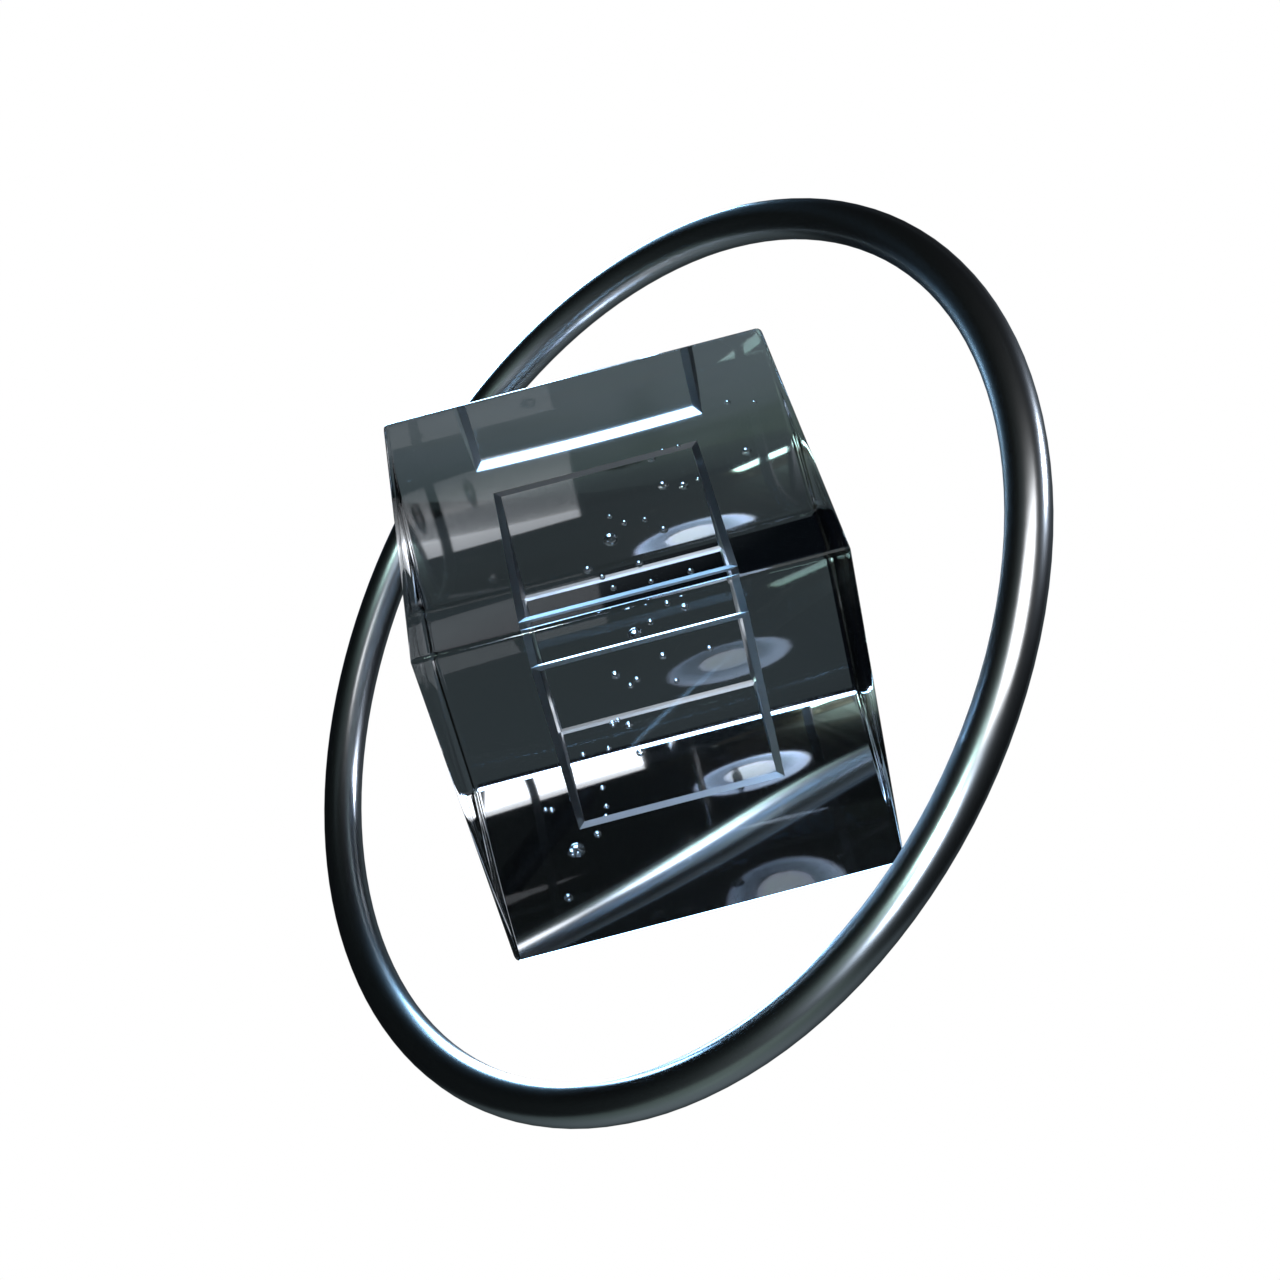
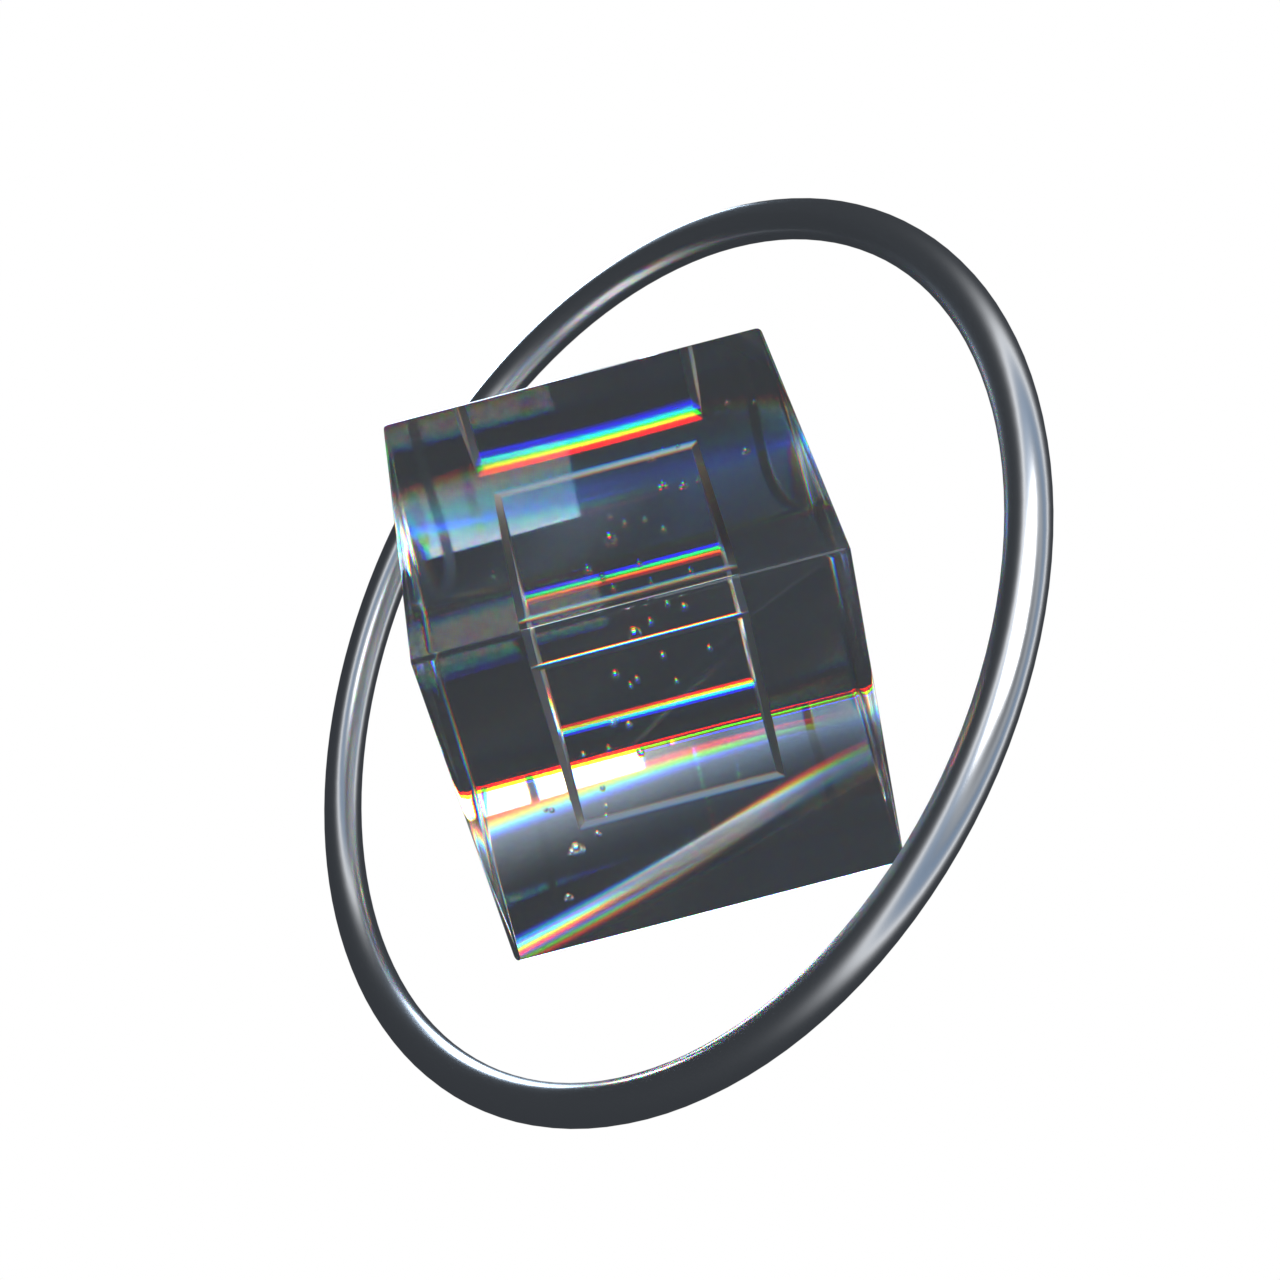
Give the ice a real material and the jewel an authored world
Frost (sheets 4-5): the hybrid formula - thin volume scatter + blue
absorption + noise rime surface. The milk lives inside the cube, so the
silhouette finally holds on white. Clear state (sheet 6): authored
bands environment (abstract strips, no more visible softboxes) plus
subtle 3-lobe dispersion; strong spread shows RGB striping - more fire
needs more lobes, not more spread. One world lights both scrub states,
verified both ways after a hunt: the saturated ice rim light was
flooding the scattering volume under the dark env - rim desaturated,
white key raised, frost surface near-white (tint compounds over volume
bounces). Cycles gotcha recorded: volume_bounces defaults to 0 and
renders scatter volumes black.

Changed region(s): [[0.25, 0.1562, 0.8438, 0.875]]

diff --git a/blender/blockout.py b/blender/blockout.py
@@ -47,7 +47,16 @@ THICKS = [0.020, 0.045, 0.080]
 # jewelry; flatter ring tips drifted planetary, steeper crowded; bubbles
 # alone read as decoration, fractures as organic bruising, lattice alone
 # risked sterile — structure carries the argument, air carries the realism.
-DECIDED = {"ratio": 1.35, "thick": 0.045, "interior": "combo"}
+# Frost DECIDED (user, 2026-08-17, off contact-sheets 4-5): "hybrid" —
+# thin volume scatter (0.7) + blue absorption (1.2) + noise rime surface.
+# Holds the silhouette on white (the blowout fix), reads as ice, keeps the
+# lattice tease. The clear state stays plain glass — the dark jewel.
+# Clear-state world DECIDED (user, 2026-08-17, off contact-sheet-6): the
+# authored "bands" env + dispersion spread 0.02. The d5 RGB striping is a
+# 3-sample fake artifact — stronger fire needs more spectral lobes, not
+# more spread. One world lights BOTH states (the scrub can't jump worlds).
+DECIDED = {"ratio": 1.35, "thick": 0.045, "interior": "combo",
+           "frost": "hybrid", "world": "bands", "clear_spread": 0.02}
 
 POSE = {
     # DECIDED hero attitude (user, 2026-08-17, contact-sheet-2). Ring plane
@@ -76,6 +85,76 @@ def make_frost_material(roughness=0.45):
     input_socket(bsdf, "Roughness").default_value = roughness
     input_socket(bsdf, "IOR").default_value = 1.31  # ice
     input_socket(bsdf, "Transmission Weight", "Transmission").default_value = 1.0
+    return mat
+
+
+def frost_variant(kind):
+    """Material-pass frost candidates. 'base' is the blockout control;
+    the others break the surface with noise and move the milk into the
+    volume, which is how real frosted ice works."""
+    mat = bpy.data.materials.new(f"frost-{kind}")
+    mat.use_nodes = True
+    nt = mat.node_tree
+    bsdf = nt.nodes["Principled BSDF"]
+    out = nt.nodes["Material Output"]
+    # near-white, NOT 0.88-blue: multi-bounce transmission compounds any
+    # surface tint (0.88^n goes denim). Tint lives in the absorption only.
+    input_socket(bsdf, "Base Color").default_value = (0.985, 0.99, 1.0, 1.0)
+    input_socket(bsdf, "IOR").default_value = 1.31
+    input_socket(bsdf, "Transmission Weight", "Transmission").default_value = 1.0
+    input_socket(bsdf, "Roughness").default_value = 0.45
+    if kind == "base":
+        return mat
+
+    # imperfect frost: noise-broken roughness + micro bump
+    noise = nt.nodes.new("ShaderNodeTexNoise")
+    noise.inputs["Scale"].default_value = 7.0
+    noise.inputs["Detail"].default_value = 8.0
+    ramp = nt.nodes.new("ShaderNodeMapRange")
+    ramp.inputs["From Min"].default_value = 0.35
+    ramp.inputs["From Max"].default_value = 0.65
+    ramp.inputs["To Min"].default_value = 0.30
+    ramp.inputs["To Max"].default_value = 0.58
+    nt.links.new(noise.outputs["Fac"], ramp.inputs["Value"])
+    nt.links.new(ramp.outputs["Result"], input_socket(bsdf, "Roughness"))
+    bump = nt.nodes.new("ShaderNodeBump")
+    bump.inputs["Strength"].default_value = 0.06
+    nt.links.new(noise.outputs["Fac"], bump.inputs["Height"])
+    nt.links.new(bump.outputs["Normal"], input_socket(bsdf, "Normal"))
+    if kind == "noise":
+        return mat
+
+    if kind == "vol":
+        # milk in the depth, clearer surface: internal scattering
+        vol = nt.nodes.new("ShaderNodeVolumeScatter")
+        vol.inputs["Color"].default_value = (0.92, 0.96, 1.0, 1.0)
+        vol.inputs["Density"].default_value = 2.0
+        vol.inputs["Anisotropy"].default_value = 0.35
+        nt.links.new(vol.outputs["Volume"], out.inputs["Volume"])
+        ramp.inputs["To Min"].default_value = 0.12
+        ramp.inputs["To Max"].default_value = 0.30
+    elif kind == "absorb":
+        # depth tints faintly toward ice
+        vol = nt.nodes.new("ShaderNodeVolumeAbsorption")
+        vol.inputs["Color"].default_value = (0.80, 0.90, 0.97, 1.0)
+        vol.inputs["Density"].default_value = 2.0
+        nt.links.new(vol.outputs["Volume"], out.inputs["Volume"])
+    elif kind == "hybrid":
+        # thin milk for body + blue depth: scatter and absorption added
+        scat = nt.nodes.new("ShaderNodeVolumeScatter")
+        scat.inputs["Color"].default_value = (1.0, 1.0, 1.0, 1.0)
+        scat.inputs["Density"].default_value = 0.7
+        scat.inputs["Anisotropy"].default_value = 0.35
+        absb = nt.nodes.new("ShaderNodeVolumeAbsorption")
+        # retuned for the darker bands world (1.2 read denim-blue there)
+        absb.inputs["Color"].default_value = (0.91, 0.945, 0.975, 1.0)
+        absb.inputs["Density"].default_value = 0.6
+        add = nt.nodes.new("ShaderNodeAddShader")
+        nt.links.new(scat.outputs["Volume"], add.inputs[0])
+        nt.links.new(absb.outputs["Volume"], add.inputs[1])
+        nt.links.new(add.outputs["Shader"], out.inputs["Volume"])
+        ramp.inputs["To Min"].default_value = 0.15
+        ramp.inputs["To Max"].default_value = 0.38
     return mat
 
 
@@ -162,8 +241,11 @@ def build_interior(kind, cube_euler, air, metal):
         add_bubbles(rng, rot, air, 36, max_r=0.016)
 
 
-def build_world():
-    """HDRI drives lighting and reflections; camera rays see pure white."""
+def build_world(kind="studio"):
+    """Lighting/reflection environment; camera rays always see pure white.
+    'studio' = the built-in HDRI. 'bands' = an authored abstract env — soft
+    bright strips on graphite plus one ice zone, so the clear cube's internal
+    reflections stop reading as recognisable light fixtures."""
     world = bpy.data.worlds.new("blockout-world")
     world.use_nodes = True
     nt = world.node_tree
@@ -172,32 +254,91 @@ def build_world():
     out = nt.nodes.new("ShaderNodeOutputWorld")
     mix = nt.nodes.new("ShaderNodeMixShader")
     light_path = nt.nodes.new("ShaderNodeLightPath")
+    bg_env = nt.nodes.new("ShaderNodeBackground")
 
-    env = nt.nodes.new("ShaderNodeTexEnvironment")
-    env.image = bpy.data.images.load(str(HDRI))
-    bg_hdri = nt.nodes.new("ShaderNodeBackground")
-    bg_hdri.inputs["Strength"].default_value = 0.5
+    if kind == "studio":
+        env = nt.nodes.new("ShaderNodeTexEnvironment")
+        env.image = bpy.data.images.load(str(HDRI))
+        bg_env.inputs["Strength"].default_value = 0.5
+        nt.links.new(env.outputs["Color"], bg_env.inputs["Color"])
+    else:  # bands
+        coord = nt.nodes.new("ShaderNodeTexCoord")
+        mapping = nt.nodes.new("ShaderNodeMapping")
+        mapping.inputs["Rotation"].default_value = (0.0, 0.6, 0.4)
+        grad = nt.nodes.new("ShaderNodeTexGradient")
+        ramp = nt.nodes.new("ShaderNodeValToRGB")
+        ramp.color_ramp.interpolation = "B_SPLINE"
+        e = ramp.color_ramp.elements
+        e[0].position = 0.0
+        e[0].color = (0.02, 0.022, 0.025, 1.0)
+        e[1].position = 1.0
+        e[1].color = (0.03, 0.033, 0.038, 1.0)
+        for pos, col in [(0.38, (0.02, 0.022, 0.025, 1.0)),
+                         (0.45, (1.0, 1.0, 1.0, 1.0)),
+                         (0.52, (0.02, 0.022, 0.025, 1.0)),
+                         (0.70, (0.13, 0.20, 0.30, 1.0)),
+                         (0.78, (0.03, 0.033, 0.038, 1.0)),
+                         (0.86, (0.32, 0.33, 0.34, 1.0)),
+                         (0.93, (0.03, 0.033, 0.038, 1.0))]:
+            el = e.new(pos)
+            el.color = col
+        bg_env.inputs["Strength"].default_value = 2.0
+        nt.links.new(coord.outputs["Generated"], mapping.inputs["Vector"])
+        nt.links.new(mapping.outputs["Vector"], grad.inputs["Vector"])
+        nt.links.new(grad.outputs["Fac"], ramp.inputs["Fac"])
+        nt.links.new(ramp.outputs["Color"], bg_env.inputs["Color"])
 
     bg_white = nt.nodes.new("ShaderNodeBackground")
     bg_white.inputs["Color"].default_value = (1.0, 1.0, 1.0, 1.0)
 
-    nt.links.new(env.outputs["Color"], bg_hdri.inputs["Color"])
     nt.links.new(light_path.outputs["Is Camera Ray"], mix.inputs["Fac"])
-    nt.links.new(bg_hdri.outputs["Background"], mix.inputs[1])
+    nt.links.new(bg_env.outputs["Background"], mix.inputs[1])
     nt.links.new(bg_white.outputs["Background"], mix.inputs[2])
     nt.links.new(mix.outputs["Shader"], out.inputs["Surface"])
     return world
 
 
+def make_dispersion_material(spread):
+    """Clear-state glass with faked dispersion: three Glass BSDFs, one per
+    colour channel, IOR split by `spread`. spread 0 = the plain dark jewel."""
+    mat = bpy.data.materials.new(f"clear-disp-{spread}")
+    mat.use_nodes = True
+    nt = mat.node_tree
+    out = nt.nodes["Material Output"]
+    nt.nodes.remove(nt.nodes["Principled BSDF"])
+    add1 = nt.nodes.new("ShaderNodeAddShader")
+    add2 = nt.nodes.new("ShaderNodeAddShader")
+    for i, (col, ior) in enumerate([((1, 0, 0, 1), 1.31 - spread),
+                                    ((0, 1, 0, 1), 1.31),
+                                    ((0, 0, 1, 1), 1.31 + spread)]):
+        g = nt.nodes.new("ShaderNodeBsdfGlass")
+        g.inputs["Color"].default_value = col
+        g.inputs["Roughness"].default_value = 0.03
+        g.inputs["IOR"].default_value = ior
+        if i < 2:
+            nt.links.new(g.outputs["BSDF"], add1.inputs[i])
+        else:
+            nt.links.new(g.outputs["BSDF"], add2.inputs[1])
+    nt.links.new(add1.outputs["Shader"], add2.inputs[0])
+    nt.links.new(add2.outputs["Shader"], out.inputs["Surface"])
+    return mat
+
+
 def build_scene(ratio, thick, ring_euler=None, cube_euler=None,
-                interior=None, frost_roughness=0.45):
+                interior=None, frost_roughness=0.45, frost_kind=None,
+                world_kind="studio", clear_spread=None):
     ring_euler = ring_euler or POSE["ring_euler"]
     cube_euler = cube_euler or POSE["cube_euler"]
     bpy.ops.wm.read_factory_settings(use_empty=True)
     scene = bpy.context.scene
-    scene.world = build_world()
+    scene.world = build_world(world_kind)
 
-    frost = make_frost_material(frost_roughness)
+    if clear_spread is not None:
+        frost = make_dispersion_material(clear_spread)
+    elif frost_kind:
+        frost = frost_variant(frost_kind)
+    else:
+        frost = make_frost_material(frost_roughness)
     metal = make_ring_material()
 
     bpy.ops.mesh.primitive_cube_add(size=CUBE_EDGE, rotation=cube_euler)
@@ -230,15 +371,20 @@ def build_scene(ratio, thick, ring_euler=None, cube_euler=None,
     # Soft white key upper-front-right; ice rim behind-left (the object tint).
     bpy.ops.object.light_add(type="AREA", location=(2.6, -2.4, 3.0))
     key = bpy.context.active_object
-    key.data.energy = 60
+    # rebalanced for the bands world: the dark env made the ice rim the
+    # dominant source and turned the frost denim-blue
+    key.data.energy = 130
     key.data.size = 3.0
     key.rotation_euler = (math.radians(38), 0, math.radians(45))
 
     bpy.ops.object.light_add(type="AREA", location=(-3.0, 3.2, 1.2))
     rim = bpy.context.active_object
-    rim.data.energy = 420
+    rim.data.energy = 150
     rim.data.size = 2.0
-    rim.data.color = ICE_LINEAR
+    # Desaturated ice, NOT ICE_LINEAR: a saturated colored area light floods
+    # a scattering volume under a dark env (found the hard way — the frost
+    # rendered denim-blue under bands until the rim was neutralised).
+    rim.data.color = (0.52, 0.64, 0.78)
     rim.rotation_euler = (math.radians(72), 0, math.radians(-137))
 
     # Camera auto-framed off the ring so every study fills the frame alike.
@@ -266,6 +412,8 @@ def setup_render(scene, samples, res):
     scene.cycles.samples = samples
     scene.cycles.use_adaptive_sampling = True
     scene.cycles.use_denoising = True
+    # default is 0 and renders scattering volumes black
+    scene.cycles.volume_bounces = 8
     scene.render.resolution_x = res
     scene.render.resolution_y = res
     scene.render.image_settings.file_format = "PNG"
@@ -273,9 +421,12 @@ def setup_render(scene, samples, res):
 
 
 def render_study(name, ratio, thick, ring_euler=None, cube_euler=None,
-                 interior=None, frost_roughness=0.45, samples=96, res=640):
+                 interior=None, frost_roughness=0.45, frost_kind=None,
+                 world_kind="studio", clear_spread=None,
+                 samples=96, res=640):
     scene = build_scene(ratio, thick, ring_euler, cube_euler,
-                        interior, frost_roughness)
+                        interior, frost_roughness, frost_kind,
+                        world_kind, clear_spread)
     setup_render(scene, samples, res)
     scene.render.filepath = str(OUT_DIR / f"{name}.png")
     t0 = time.time()
@@ -303,15 +454,50 @@ def main():
                              frost_roughness=rough)
         return
 
+    if "--frost" in argv:
+        # Material pass, phase 1: frost candidates at the locked config.
+        # Optionally name specific kinds after --frost to re-render a subset.
+        all_kinds = ["base", "noise", "vol", "absorb", "hybrid"]
+        kinds = [a for a in argv if a in all_kinds] or all_kinds
+        for kind in kinds:
+            render_study(f"f_{kind}", DECIDED["ratio"], DECIDED["thick"],
+                         interior=DECIDED["interior"], frost_kind=kind)
+        return
+
+    if "--check" in argv:
+        # Fast both-states check under the DECIDED world, study res.
+        render_study("check-frost", DECIDED["ratio"], DECIDED["thick"],
+                     interior=DECIDED["interior"], frost_kind=DECIDED["frost"],
+                     world_kind=DECIDED["world"])
+        render_study("check-clear", DECIDED["ratio"], DECIDED["thick"],
+                     interior=DECIDED["interior"], world_kind=DECIDED["world"],
+                     clear_spread=DECIDED["clear_spread"])
+        return
+
+    if "--jewel" in argv:
+        # Material pass, phase 2: the clear state's environment (studio HDRI
+        # vs authored bands) crossed with dispersion strength (d0 = control,
+        # the loved dark jewel as-is).
+        for env in ["studio", "bands"]:
+            for tag, spread in (("d0", 0.0), ("d2", 0.02), ("d5", 0.05)):
+                render_study(f"j_{env}_{tag}", DECIDED["ratio"],
+                             DECIDED["thick"], interior=DECIDED["interior"],
+                             world_kind=env, clear_spread=spread)
+        return
+
     if "--hero" in argv:
         # The reference stills of the locked configuration — what sections 1
         # and 6 get laid out against until real renders exist. The clear
         # state's dark-glass look is KEPT (user, 2026-08-17): transmission
         # rays seeing the HDRI is the reveal's payoff, not an artifact.
         render_study("hero-ref", DECIDED["ratio"], DECIDED["thick"],
-                     interior=DECIDED["interior"], samples=256, res=1280)
+                     interior=DECIDED["interior"],
+                     frost_kind=DECIDED["frost"],
+                     world_kind=DECIDED["world"], samples=256, res=1280)
         render_study("clear-ref", DECIDED["ratio"], DECIDED["thick"],
-                     interior=DECIDED["interior"], frost_roughness=0.03,
+                     interior=DECIDED["interior"],
+                     world_kind=DECIDED["world"],
+                     clear_spread=DECIDED["clear_spread"],
                      samples=256, res=1280)
         return
 
